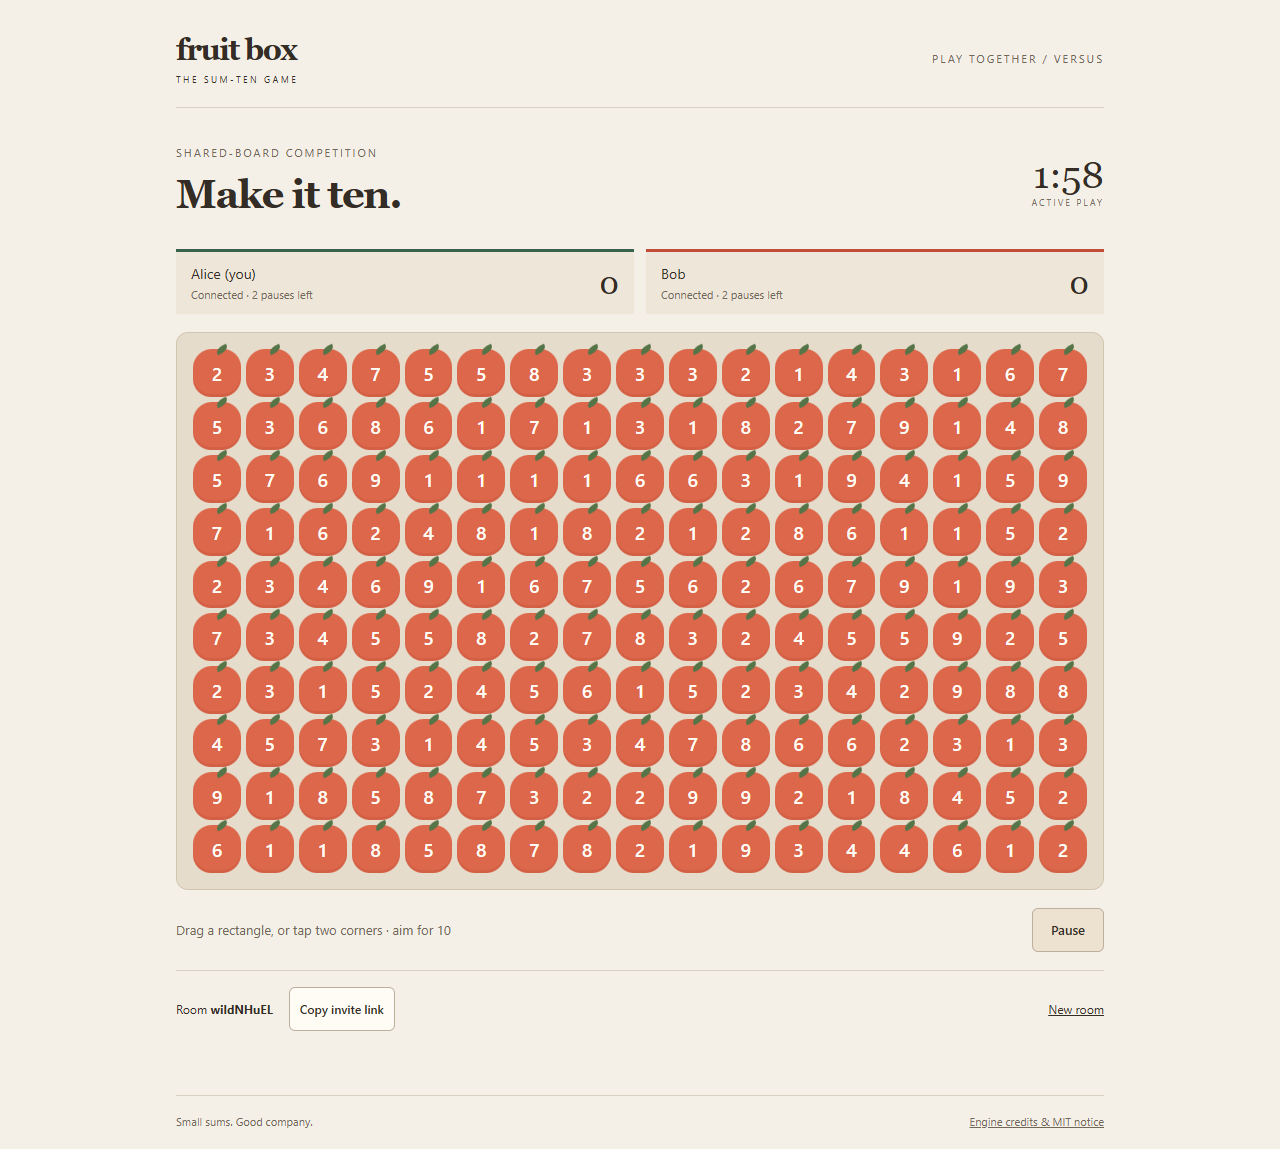
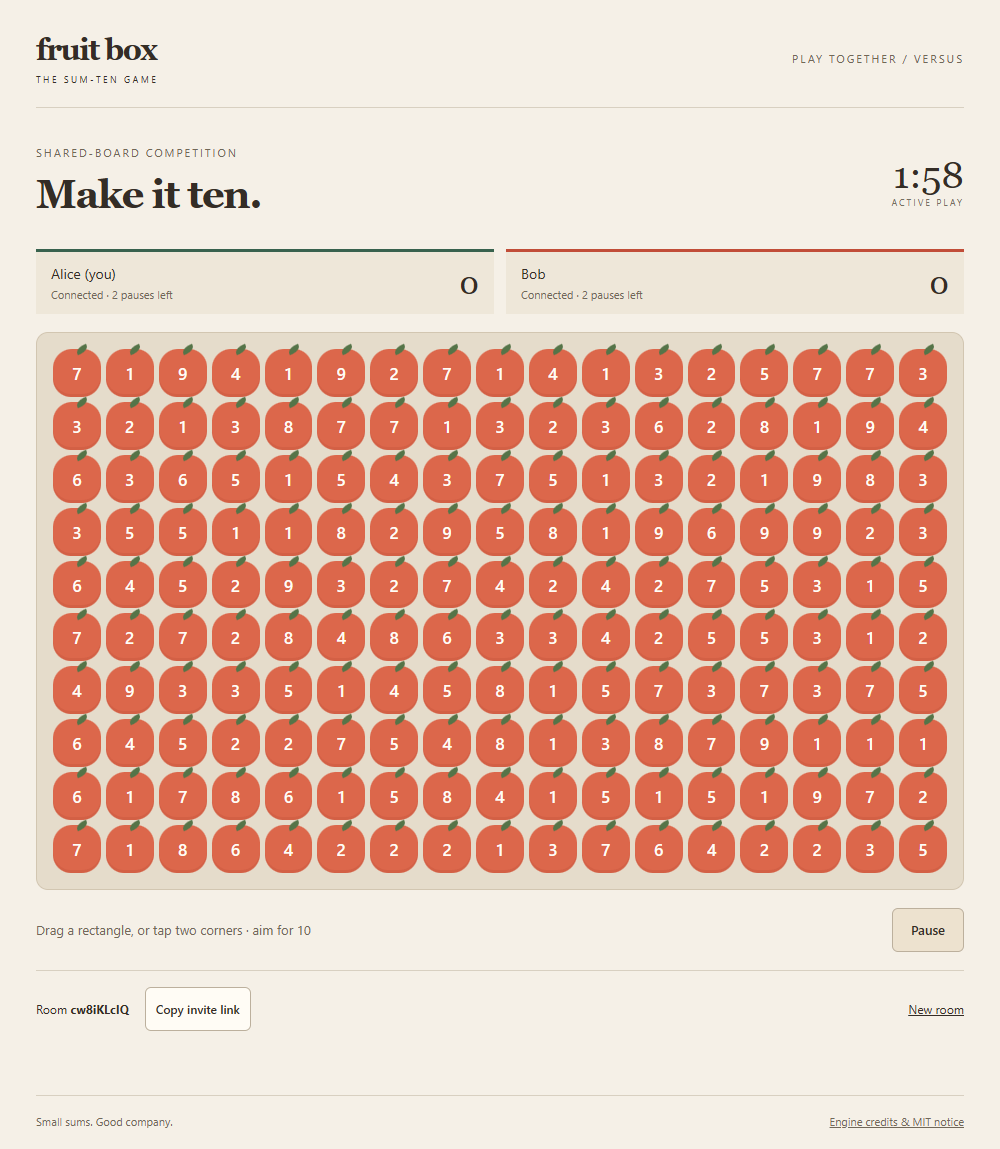
fix: verify browser recovery and respect room navigation (#13)

diff --git a/web/app.ts b/web/app.ts
@@ -141,8 +141,15 @@ element('ready').onclick = () => room?.send('ready');
 element('pause').onclick = () => send('pause');
 element('resume').onclick = () => send('resume');
 element('copy').onclick = async () => { try { await navigator.clipboard.writeText(location.href); message('Invite link copied.'); } catch { message(`Share this address: ${location.href}`); } };
+element('new-room').onclick = async event => {
+  event.preventDefault();
+  await room?.leave();
+  sessionStorage.removeItem('rejoin');
+  location.href = '/';
+};
 const token = sessionStorage.getItem('rejoin');
-if (token) {
+const invitedRoom = new URLSearchParams(location.search).get('room');
+if (token && (!invitedRoom || token.split(':')[0] === invitedRoom)) {
   message('Trying to rejoin your match…');
   sdk.reconnect<RoomState>(token).then(attach).catch(() => { sessionStorage.removeItem('rejoin'); message('Previous match unavailable. Create or join a room.'); });
 }

diff --git a/docs/agents/resume.md b/docs/agents/resume.md
@@ -20,7 +20,7 @@ The repository is the durable context. A desktop chat, a global skill installati
 
 ## Current state
 
-The first TypeScript/Node/Colyseus private-room transport slice is implemented; a playable application remains future work. Solo play and private two-player shared-board competition are the first release scope. Mobile interaction details and the initial deployment route remain open decisions. The solver, other competition modes, and Google login are later work. Read the design interview for the full confirmed rule set.
+A TypeScript/Node/Colyseus browser versus match is implemented locally; see [gameplay setup](../versus-gameplay.md). Physical-phone acceptance and hosting remain pending. Solo play and private two-player shared-board competition are the first release scope. Mobile interaction details and the initial deployment route remain open decisions. The solver, other competition modes, and Google login are later work. Read the design interview for the full confirmed rule set.
 
 ## What does not travel in Git
 

diff --git a/README.md b/README.md
@@ -2,7 +2,7 @@
 
 A personal Fruit Box project exploring solo play and real-time competition between friends on a shared board, accessible from iPhone and Android browsers.
 
-TypeScript, Node and Colyseus are accepted. The first server slice connects two guests to a private room with an identical certified board; timed gameplay and browser UI remain future work. See [room setup and demo](docs/versus-rooms.md). Hosting remains undecided.
+TypeScript, Node and Colyseus are accepted. The local browser implementation supports a timed two-player shared-board match with authoritative clears, scores, pauses and reconnection. See [playable versus setup](docs/versus-gameplay.md); physical-phone acceptance remains pending. Hosting remains undecided.
 
 ## Continue with an agent
 

diff --git a/docs/README.md b/docs/README.md
@@ -1,6 +1,6 @@
 # Fruit Box research and design
 
-Research date: 29 October 2026 (Singapore time). The first TypeScript/Colyseus room transport slice is implemented; a playable match and browser UI remain future work.
+Research date: 29 October 2026 (Singapore time). The TypeScript/Colyseus browser match is playable locally; physical iPhone/Android acceptance and hosting remain pending.
 
 1. [Repository and deployment](research/repository.md): inspected commit, game engine, generator, UI, running instructions, docs, tests, license, and limits of the public repo's relationship to the live site.
 2. [Origins and board generation](research/origins-and-generation.md): original 2007 release, 2019 HTML5 update, newer 2026 project dates, and exact generator comparison.
